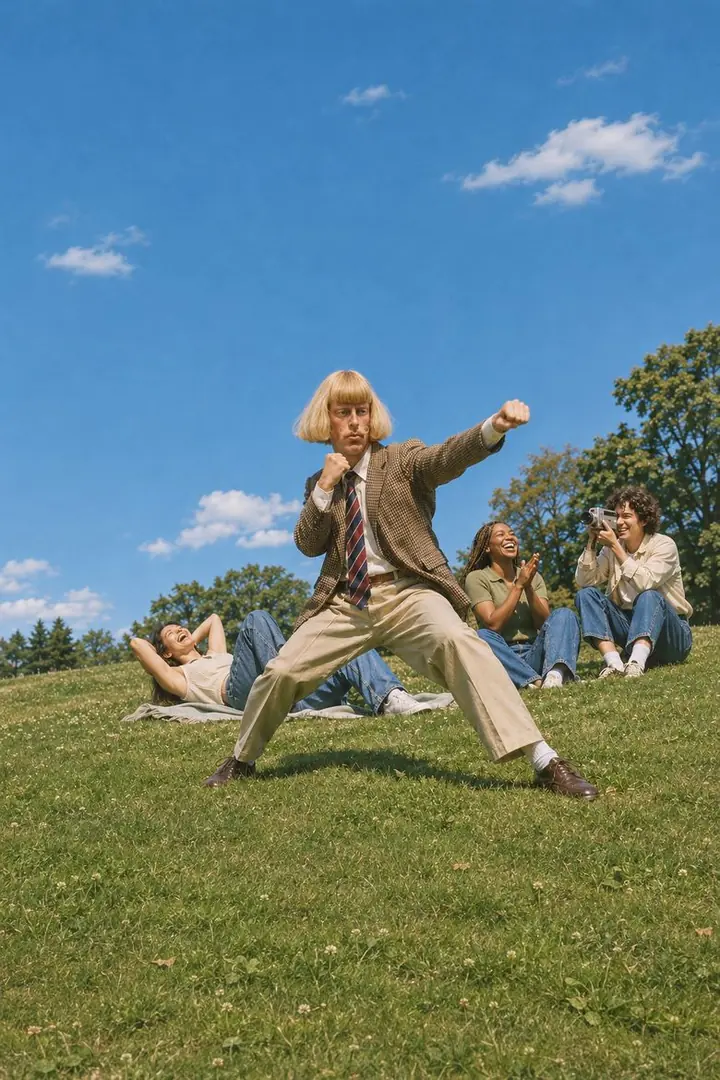
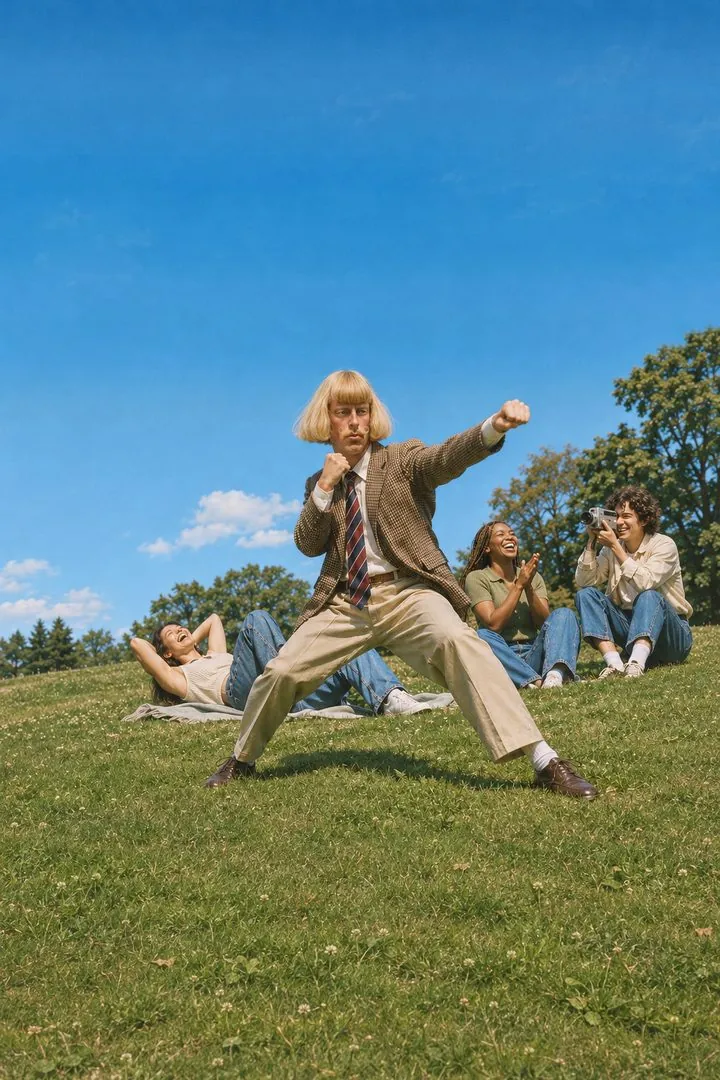
Stories: new crisps photos, drifting clouds, colour-matched five-a-side
From the opening flow design: Jean Phil and Leo added to the crisps
picnic and car photos (new anchor points), a deeper sky on the last
crisps slide with a cloud layer that drifts sideways (still under
reduced motion), and five-a-side slides 2 and 3 graded to match 1 and 4.

Claude-Session: https://claude.ai/code/session_01TySN1avckRToF7GHjiaCsK

diff --git a/web/src/stories/stories.css b/web/src/stories/stories.css
@@ -11,6 +11,9 @@
 .s-player__photos img{position:absolute;inset:0;width:100%;height:100%;object-fit:cover;opacity:0;transition:opacity .7s ease}
 .s-player__photos img.is-on{opacity:1;animation:s-zoom 6s ease-out both}
 .s-player::after{content:'';position:absolute;inset:0;z-index:-1;pointer-events:none;background:linear-gradient(180deg,rgba(10,20,30,.62) 0%,rgba(10,20,30,.16) 30%,transparent 46%,rgba(10,20,30,.22) 66%,rgba(10,20,30,.74) 100%)}
+/* High clouds over a photo, drifting slowly sideways. */
+.s-player__photos img.s-player__clouds{opacity:1;animation:s-drift 9s ease-in-out infinite alternate}
+@keyframes s-drift{from{translate:-10px 0}to{translate:12px 0}}
 @keyframes s-zoom{from{transform:scale(1.06)}to{transform:scale(1)}}
 .s-player__bars{position:absolute;top:14px;left:14px;right:48px;display:flex;gap:4px;z-index:3}
 .s-player__bars span{flex:1;height:3px;border-radius:3px;background:rgba(255,255,255,.34);overflow:hidden}
@@ -45,7 +48,7 @@
 .s-player__tap:focus-visible{outline:3px solid #83ad83;outline-offset:-4px;border-radius:26px}
 @keyframes s-in{from{opacity:0;transform:translateY(14px);filter:blur(5px)}to{opacity:1;transform:none;filter:blur(0)}}
 @keyframes s-rise{from{opacity:0;transform:translateY(16px) scale(.97)}to{opacity:1;transform:none}}
-@media(prefers-reduced-motion:reduce){.s-player__photos img{transition:none}.s-player__photos img.is-on,.s-player__copy,.s-player__cast>span,.s-player__toast{animation:none}}
+@media(prefers-reduced-motion:reduce){.s-player__photos img{transition:none}.s-player__photos img.is-on,.s-player__photos img.s-player__clouds,.s-player__copy,.s-player__cast>span,.s-player__toast{animation:none}}
 
 /* In the hero: beside the headline on a wide screen, the hero's design unchanged around it. */
 .l-hero__body{position:relative}

diff --git a/web/src/stories/StoryPlayer.tsx b/web/src/stories/StoryPlayer.tsx
@@ -1,5 +1,5 @@
 import { useEffect, useRef, useState, type ReactNode } from 'react';
-import { CAST, FOCAL, shortFace, type Beat, type ImageKey, type Story } from '@commune/core/stories';
+import { CAST, CLOUDS, FOCAL, shortFace, type Beat, type ImageKey, type Story } from '@commune/core/stories';
 import { storyImage } from './images';
 
 /** How long each slide stays, as in the prototype. */
@@ -76,6 +76,7 @@ export function StoryPlayer({ story, variant, onEnd, children }: {
     onMouseEnter={variant === 'hero' ? () => setHovered(true) : undefined} onMouseLeave={variant === 'hero' ? () => setHovered(false) : undefined}>
     <div className="s-player__photos" aria-hidden="true">
       {photos.map(key => <img key={key} className={key === beat.img ? 'is-on' : ''} src={storyImage(key)} alt="" style={{ objectPosition: focus(key) }} loading={key === beats[0].img ? 'eager' : 'lazy'} decoding="async" />)}
+      {CLOUDS[beat.img] ? <img className="s-player__clouds" src={storyImage(CLOUDS[beat.img]!)} alt="" style={{ objectPosition: focus(beat.img) }} decoding="async" /> : null}
     </div>
     <div className="s-player__bars" aria-hidden="true">
       {beats.map((_, i) => <span key={i}><i key={i === index ? `now-${index}` : i}

diff --git a/packages/core/src/stories/stories.ts b/packages/core/src/stories/stories.ts
@@ -221,14 +221,17 @@ export const FOCAL: Partial<Record<ImageKey, [number, number]>> = {
   "xmas-b": [0.5,0.74],
   "xmas-c": [0.48,0.86],
   "xmas-f": [0.5,0.8],
-  "picnic": [0.55,0],
+  "picnic": [0.53,0.88],
   "fridge": [0.5,0.78],
-  "chips": [0.6,0],
+  "chips": [0.49,0.86],
   "bench": [0.5,0],
   "shadowbox": [0.5,0],
 };
 
 /** Loading lines any commune can show, mixed with the story's own. */
 export const GENERAL_LINES: string[] = [ "Putting the kettle on", "Rounding the pennies kindly", "Untangling who owes who", "Asking who finished the milk", "Agreeing on the thermostat", "Finding the TV remote", "Checking the rota twice", "Sorting the recycling properly", "Defrosting the group chat", "Labelling Ama's oat milk", "Watering Mei's plants", "Waiting for Theo to get you back" ];
+
+/** A moving layer drawn over a photo: high clouds that drift slowly sideways. */
+export const CLOUDS: Partial<Record<ImageKey, ImageKey>> = { shadowbox: "shadowbox-clouds" };
 
 export const CAST_NAMES = ["Jean Phil", "Maya", "Theo", "Ama", "Mei", "Leo"];

diff --git a/packages/core/src/stories/images.ts b/packages/core/src/stories/images.ts
@@ -9,7 +9,7 @@ export const IMAGE_KEYS = [
   "bday-a", "bday-b", "bday-c", "bench", "chips",
   "fest-a", "fest-b", "fest-c", "foot-a", "foot-b", "foot-c", "fridge", "jeanphil",
   "move-a", "move-b", "move-c", "picnic", "rent-a", "rent-b", "rent-c",
-  "road-a", "road-b", "road-c", "roast-a", "roast-b", "roast-c", "shadowbox",
+  "road-a", "road-b", "road-c", "roast-a", "roast-b", "roast-c", "shadowbox", "shadowbox-clouds",
   "taxi-a", "taxi-b", "taxi-c", "villa-a", "villa-b", "villa-c",
   "work-a", "work-b", "work-c", "xmas-a", "xmas-b", "xmas-c",
   "p-jeanphil", "p-maya", "p-sam", "p-ama", "p-mei", "p-leo",
